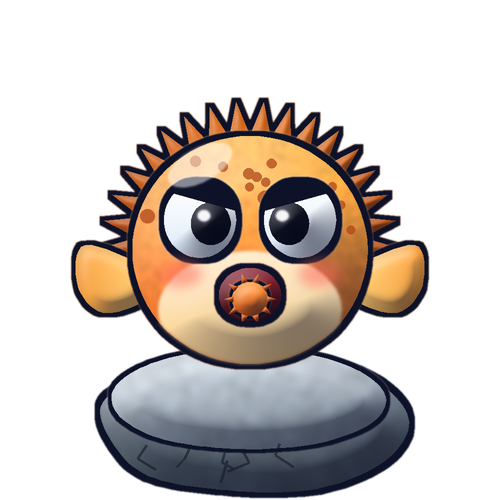
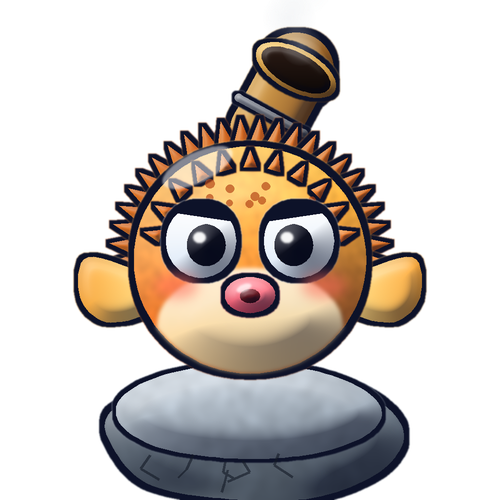
kilic baligi ve balon baligi sprite'lari

Changed region(s): [[0.12, 0.03, 0.87, 1.0]]

diff --git a/tools/sprites/puffer.py b/tools/sprites/puffer.py
@@ -1,82 +1,106 @@
+"""Balon Balığı: kayanın üstünde şişmiş, dikenli balık; sırtında bronz havan namlusu."""
 import math
+
 import numpy as np
 from PIL import Image, ImageDraw
 from scipy import ndimage as ndi
+
 import toolkit as T
-from toolkit import rgb, S
+from toolkit import S, rgb
+
+
+def cone(img, cx, cy, ang, base_r, length, c0, c1, width):
+    """Dışa bakan konik diken."""
+    px, py = -math.sin(ang), math.cos(ang)
+    bx, by = cx + math.cos(ang) * base_r, cy + math.sin(ang) * base_r
+    tip = (cx + math.cos(ang) * (base_r + length), cy + math.sin(ang) * (base_r + length))
+    pts = [(bx + px * width, by + py * width), tip, (bx - px * width, by - py * width)]
+    return T.over(img, T.layer(T.mask_poly(pts), rgb(c0), rgb(c1), angle=math.degrees(ang) + 90, sigma=6, outline_px=8, gloss=0.15, rim=0.0))
 
 
 def build(out_path=None, seed=5):
     rng = np.random.default_rng(seed)
-    img = T.blank()
-    img = T.rock_base(img, 500, 810, 310, 125, rng)
+    img = T.rock_base(T.blank(), 500, 835, 300, 118, rng)
 
-    cx, cy, R = 500, 500, 235
-    # dikenler (gövdenin arkasında)
-    spikes = np.zeros((S, S), np.float32)
-    n = 20
-    for i in range(n):
-        a = math.radians(-165 + i * (150 / (n - 1)) * 1.0)
-        for side in (0,):
+    cx, cy, R = 500, 520, 232
+
+    # --- havan namlusu (gövdenin arkasında, sağ üste eğik)
+    ax, ay = 462, 380
+    bx, by = 592, 140
+    barrel = T.mask_taper([(ax, ay), ((ax + bx) / 2, (ay + by) / 2), (bx, by)], 118, 150)
+    img = T.over(img, T.layer(barrel, rgb('#e0a84a'), rgb('#7d4a1c'), angle=20, sigma=16, outline_px=11, gloss=0.5, rim=0.25))
+    dirx, diry = bx - ax, by - ay
+    ln = math.hypot(dirx, diry)
+    dirx, diry = dirx / ln, diry / ln
+    nx, ny = -diry, dirx
+    for t, w in ((0.30, 68), (0.62, 74)):                       # demir bantlar
+        mx, my = ax + (bx - ax) * t, ay + (by - ay) * t
+        band = T.mask_stroke([(mx - nx * w, my - ny * w), (mx + nx * w, my + ny * w)], 16)
+        img = T.over(img, T.layer(band, rgb('#8a8f99'), rgb('#4b4f5a'), angle=90, sigma=5, outline_px=6, gloss=0.4, rim=0.0))
+    # namlu ağzı (karanlık delik)
+    mouth = T.mask_ellipse(bx, by, 76, 34, rot=math.atan2(ny, nx) + math.pi / 2 - math.pi / 2)
+    ring = T.mask_ellipse(bx, by, 88, 42, rot=math.atan2(ny, nx) + math.pi / 2 - math.pi / 2)
+    img = T.over(img, T.layer(ring, rgb('#f0c060'), rgb('#9a6420'), angle=90, sigma=6, outline_px=8, gloss=0.3, rim=0.0))
+    img = T.over(img, T.layer(mouth, rgb('#2a1a14'), rgb('#0d0806'), angle=90, sigma=6, outline=False, gloss=0.0, rim=0.0))
+    # namlu üzerinde ince duman
+    yy, xx = np.mgrid[0:S, 0:S].astype(np.float32)
+    for k, (ox, oy, rr, a) in enumerate(((10, -50, 42, 0.30), (-14, -105, 54, 0.22), (14, -170, 62, 0.14))):
+        d = np.sqrt((xx - (bx + ox)) ** 2 + (yy - (by + oy)) ** 2)
+        puff = np.clip(1 - d / rr, 0, 1) ** 0.8 * a
+        img = T.over(img, np.dstack([np.broadcast_to(rgb('#cfd6dc'), (S, S, 3)), puff]))
+
+    # --- arka diken halkası
+    for i in range(30):
+        a = math.radians(-205 + i * (230 / 29))
+        if -100 < math.degrees(a) < -60 and True:
             pass
-    for i in range(22):
-        a = math.radians(-200 + i * 220 / 21)
-        bx, by = cx + math.cos(a) * R * 0.92, cy + math.sin(a) * R * 0.92
-        tx, ty = cx + math.cos(a) * (R + 62), cy + math.sin(a) * (R + 62)
-        px, py = -math.sin(a), math.cos(a)
-        pts = [(bx + px * 24, by + py * 24), (tx, ty), (bx - px * 24, by - py * 24)]
-        spikes = np.maximum(spikes, T.mask_poly(pts))
-    sp = T.layer(spikes, rgb('#e0701f'), rgb('#a8431a'), angle=90, sigma=9, outline_px=9, gloss=0.1)
-    img = T.over(img, sp)
-
-    # yan yüzgeçler
+        img = cone(img, cx, cy, a, R * 0.9, 74, '#f08a2a', '#b84a18', 24)
+    # --- yan yüzgeçler
     for sgn in (-1, 1):
-        fin = [(cx + sgn * R * 0.88, cy + 40), (cx + sgn * (R + 95), cy - 10), (cx + sgn * (R + 110), cy + 70), (cx + sgn * (R + 60), cy + 125), (cx + sgn * R * 0.9, cy + 100)]
+        fin = [(cx + sgn * R * 0.86, cy + 40), (cx + sgn * (R + 92), cy - 6), (cx + sgn * (R + 108), cy + 74), (cx + sgn * (R + 56), cy + 124), (cx + sgn * R * 0.88, cy + 104)]
         fm = T.mask_poly(T.smooth_closed(fin, 8))
-        img = T.over(img, T.layer(fm, rgb('#ffd27a'), rgb('#f0993a'), angle=0 if sgn > 0 else 180, sigma=14, outline_px=9))
+        img = T.over(img, T.layer(fm, rgb('#ffe08a'), rgb('#f2a23a'), angle=0 if sgn > 0 else 180, sigma=14, outline_px=9))
 
-    # gövde
-    body = T.mask_ellipse(cx, cy, R, R * 0.97)
+    # --- gövde
+    body = T.mask_ellipse(cx, cy, R, R * 0.98)
     tex = ndi.gaussian_filter(rng.standard_normal((S, S)).astype(np.float32), 6)
     tex = (tex - tex.min()) / (tex.max() - tex.min())
-    img = T.over(img, T.layer(body, rgb('#ffb84a'), rgb('#f26d2a'), angle=100, sigma=60, outline_px=11, texture=tex, gloss=0.45, rim=0.35))
+    img = T.over(img, T.layer(body, rgb('#ffc247'), rgb('#ec6a24'), angle=100, sigma=64, outline_px=12, texture=tex, gloss=0.5, rim=0.35))
     # karın
-    belly = T.mask_ellipse(cx, cy + 120, R * 0.78, R * 0.5) * body
-    belly = ndi.gaussian_filter(belly, 3)
-    bl = T.layer(belly, rgb('#fff1cf'), rgb('#ffdc9a'), angle=90, sigma=36, outline=False, gloss=0.0, rim=0.0)
+    belly = T.mask_ellipse(cx, cy + 132, R * 0.8, R * 0.5) * body
+    belly = ndi.gaussian_filter(belly, 4)
+    bl = T.layer(belly, rgb('#fff3d6'), rgb('#ffe0a0'), angle=90, sigma=36, outline=False, gloss=0.0, rim=0.0)
     bl[..., 3] *= 0.92
     img = T.over(img, bl)
-    # benekler
+    # ön yüzde küçük dikenler (sırt çizgisi boyunca) ve benekler
+    for a_deg in range(-165, -14, 15):
+        a = math.radians(a_deg)
+        img = cone(img, cx, cy, a, R * 0.80, 34, '#ff9a3a', '#c4501a', 13)
     d = Image.new('RGBA', (S, S), (0, 0, 0, 0))
     dd = ImageDraw.Draw(d)
-    for _ in range(34):
-        a = rng.uniform(math.radians(-170), math.radians(-10))
-        r = rng.uniform(0.35, 0.93) * R
+    for _ in range(30):
+        a = rng.uniform(math.radians(-160), math.radians(-20))
+        r = rng.uniform(0.35, 0.78) * R
         x, y = cx + math.cos(a) * r, cy + math.sin(a) * r * 0.95
-        rr = rng.uniform(7, 15)
-        dd.ellipse([x - rr, y - rr, x + rr, y + rr], fill=(176, 70, 24, 190))
+        rr = rng.uniform(6, 13)
+        dd.ellipse([x - rr, y - rr, x + rr, y + rr], fill=(178, 66, 20, 170))
     dm = np.asarray(d).astype(np.float32) / 255.0
     dm[..., 3] *= (body > 0.5)
     img = T.over(img, dm)
 
-    # gözler
-    img = T.eye(img, 400, 440, 72, look=(0.3, 0.1), angry=0.55, inner=1)
-    img = T.eye(img, 600, 440, 72, look=(-0.3, 0.1), angry=0.55, inner=-1)
-    # yanaklar (kırmızımsı)
-    for sx in (360, 640):
-        c = T.mask_ellipse(sx, 548, 44, 26)
-        c = ndi.gaussian_filter(c, 12) * body
-        img = T.over(img, np.dstack([np.broadcast_to(rgb('#ff6a5c'), (S, S, 3)), c * 0.55]))
-    # ağız: büzük 'o'
-    mm = T.mask_ellipse(500, 590, 62, 54)
-    img = T.over(img, T.layer(mm, rgb('#8a2230'), rgb('#3b0f18'), gloss=0.0, sigma=16, outline_px=10, rim=0.0))
-    ball = T.mask_ellipse(500, 598, 36, 34)
-    img = T.over(img, T.layer(ball, rgb('#ff9a3d'), rgb('#c4501a'), sigma=12, outline_px=6, gloss=0.5, rim=0.2))
-    for k in range(10):
-        a = k * math.pi / 5
-        img = T.over(img, T.layer(T.mask_poly([(500 + math.cos(a) * 34 - math.sin(a) * 6, 598 + math.sin(a) * 34 + math.cos(a) * 6), (500 + math.cos(a) * 52, 598 + math.sin(a) * 52), (500 + math.cos(a) * 34 + math.sin(a) * 6, 598 + math.sin(a) * 34 - math.cos(a) * 6)]) * mm, rgb('#d8601f'), rgb('#a8431a'), outline=False, gloss=0.0, sigma=3, rim=0.0))
-    # parlama
-    img = T.add_highlight(img, 400, 330, 70, 34, rot=-0.5, alpha=0.5)
+    # --- yüz: iri, kararlı gözler
+    img = T.eye(img, 402, 482, 70, look=(0.15, 0.12), angry=0.3, inner=1)
+    img = T.eye(img, 598, 482, 70, look=(-0.15, 0.12), angry=0.3, inner=-1)
+    for sx in (352, 648):                                          # yanak kızarıklığı
+        c = ndi.gaussian_filter(T.mask_ellipse(sx, 572, 44, 25), 12) * body
+        img = T.over(img, np.dstack([np.broadcast_to(rgb('#ff6a58'), (S, S, 3)), c * 0.55]))
+    # büzük, şişkin dudaklar
+    lips = T.mask_ellipse(500, 590, 50, 36)
+    img = T.over(img, T.layer(lips, rgb('#ff8a96'), rgb('#d94c64'), angle=90, sigma=12, outline_px=9, gloss=0.5, rim=0.2))
+    hole = T.mask_ellipse(500, 592, 20, 14)
+    img = T.over(img, T.layer(hole, rgb('#7a1f2a'), rgb('#3b0f18'), angle=90, sigma=6, outline=False, gloss=0.0, rim=0.0))
+    img = T.add_highlight(img, 488, 576, 15, 7, rot=-0.4, alpha=0.7)
+    img = T.add_highlight(img, 395, 335, 76, 30, rot=-0.45, alpha=0.5)
 
     if out_path:
         T.finish(img, out_path)

diff --git a/tools/sprites/swordfish.py b/tools/sprites/swordfish.py
@@ -6,9 +6,16 @@ import toolkit as T
 from toolkit import rgb, S
 
 
-def build(out_path=None, seed=8):
+def draw_rock(seed=8):
     rng = np.random.default_rng(seed)
-    rock = T.rock_base(T.blank(), 500, 835, 300, 118, rng)
+    return T.rock_base(T.blank(), 500, 835, 300, 118, rng)
+
+
+def draw_fish(seed=8):
+    """Çapraz duran (kılıç sağ üste bakan) balık. Kaya yok."""
+    rng = np.random.default_rng(seed)
+    np.random.default_rng(seed)
+    T.rock_base(T.blank(), 500, 835, 300, 118, rng)   # rastgele akışı eskisiyle aynı tut
     img = T.blank()
 
     # kuyruk
@@ -67,9 +74,37 @@ def build(out_path=None, seed=8):
     img = T.over(img, cm)
     img = T.add_highlight(img, ex - 22, ey - 24, 16, 8, rot=-0.7, alpha=0.7)
 
-    # balık, kayanın üstüne otursun diye aşağı kaydırılır
+    return img
+
+
+# gövde merkezi ve gaga ucu: balığı döndürürken eksen olarak kullanılır
+PIVOT = (545, 515)
+TIP = (935, 120)
+
+
+def build(out_path=None, seed=8):
+    """Marketteki simge: balık kayanın üstünde, çapraz duruyor."""
+    rock = draw_rock(seed)
+    img = draw_fish(seed)
     img = np.stack([ndi.shift(img[..., c], (92, 8), order=1) for c in range(4)], axis=-1)
     img = T.over(rock, img)
     if out_path:
         T.finish(img, out_path)
     return img
+
+
+def build_parts(base_path, fish_path, seed=8):
+    """Oyun içi: kaide ayrı, balık yatay (kılıç +x yönüne bakar) ve dönebilir."""
+    T.finish(draw_rock(seed), base_path)
+
+    fish = draw_fish(seed)
+    im = Image.fromarray((np.clip(fish, 0, 1) * 255 + 0.5).astype(np.uint8), 'RGBA')
+    big = Image.new('RGBA', (1600, 1600), (0, 0, 0, 0))
+    off = 300
+    big.alpha_composite(im, (off, off))
+    pivot = (PIVOT[0] + off, PIVOT[1] + off)
+    ang = math.degrees(math.atan2(TIP[1] - PIVOT[1], TIP[0] - PIVOT[0]))   # negatif: yukarı bakıyor
+    big = big.rotate(ang, center=pivot, resample=Image.BICUBIC)            # saat yönünde döndürerek yataya getir
+    half = 600
+    crop = big.crop((pivot[0] - half, pivot[1] - half, pivot[0] + half, pivot[1] + half))
+    crop.resize((600, 600), Image.LANCZOS).save(fish_path)

diff --git a/tools/sprites/build.py b/tools/sprites/build.py
@@ -29,7 +29,8 @@ def out(name):
 
 
 def main():
-    swordfish.build(out('tower_swordfish.png'))
+    swordfish.build(out('tower_swordfish.png'))          # marketteki simge
+    swordfish.build_parts(out('tower_swordfish_base.png'), out('tower_swordfish_fish.png'))   # oyun içi: kaide + dönen balık
     angler.build(out('tower_angler.png'))
     puffer.build(out('tower_puffer.png'))
     projectiles.spike_ball(out('projectile_puffer.png'))
